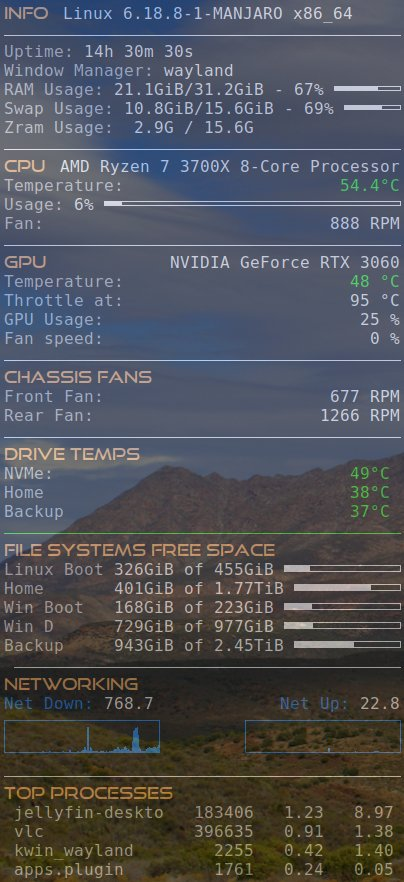
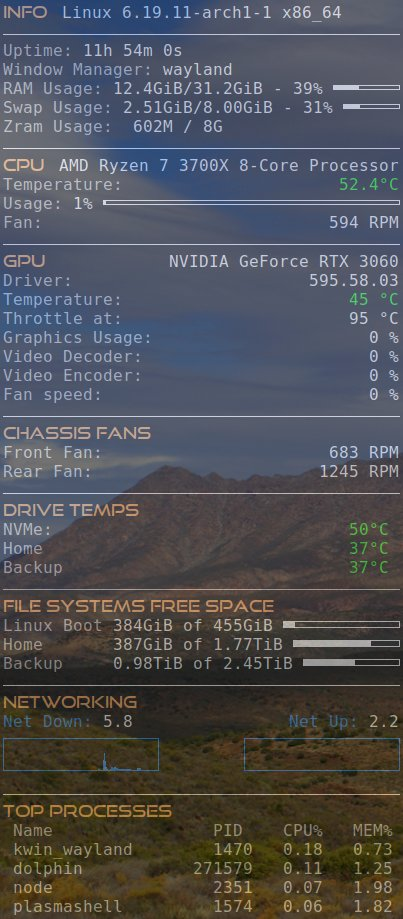
Tweaks to drive temp and removed two drive space checks
1. Removed the drive space checks for the Windows drives as they are not used and I am now no longer mounting them on boot. They get auto loaded if used, but the Conky pings were keeping them mounted the whole time.
2. The temp check for the NVMe drive was not reading the correct variable so that was adjusted (the migration between Linux distros caused this change).
3. Screenshot updated to reflect latest changes.

Changed region(s): [[0.0, 0.0, 1.0, 1.0], [0.4169, 0.2755, 0.5658, 0.3061], [0.7444, 0.5816, 0.7742, 0.6122]]

diff --git a/README.md b/README.md
@@ -48,3 +48,8 @@ This adds temperatures for two hard drives in addition to the NVMe drive. The bi
 
 # Changes in Mar 2026
 I migrated to EndeavourOS and switched from using drive mounts at /run/media/user/1000 to /mnt so some paths were changed for this. I also added a line to show the Nvidia driver version as I get quicker updates now from Arch repos. The temp readings were optimised a bit, and fan config had to be fixed to work with the new OS.
+
+# Changes April 2026
+1. Removed the drive space checks for the Windows drives as they are not used and I am now no longer mounting them on boot. They get auto loaded if used, but the Conky pings were keeping them mounted the whole time.
+2. The temp check for the NVMe drive was not reading the correct variable so that was adjusted (the migration between Linux distros caused this change).
+3. Screenshot updated to reflect latest changes.
